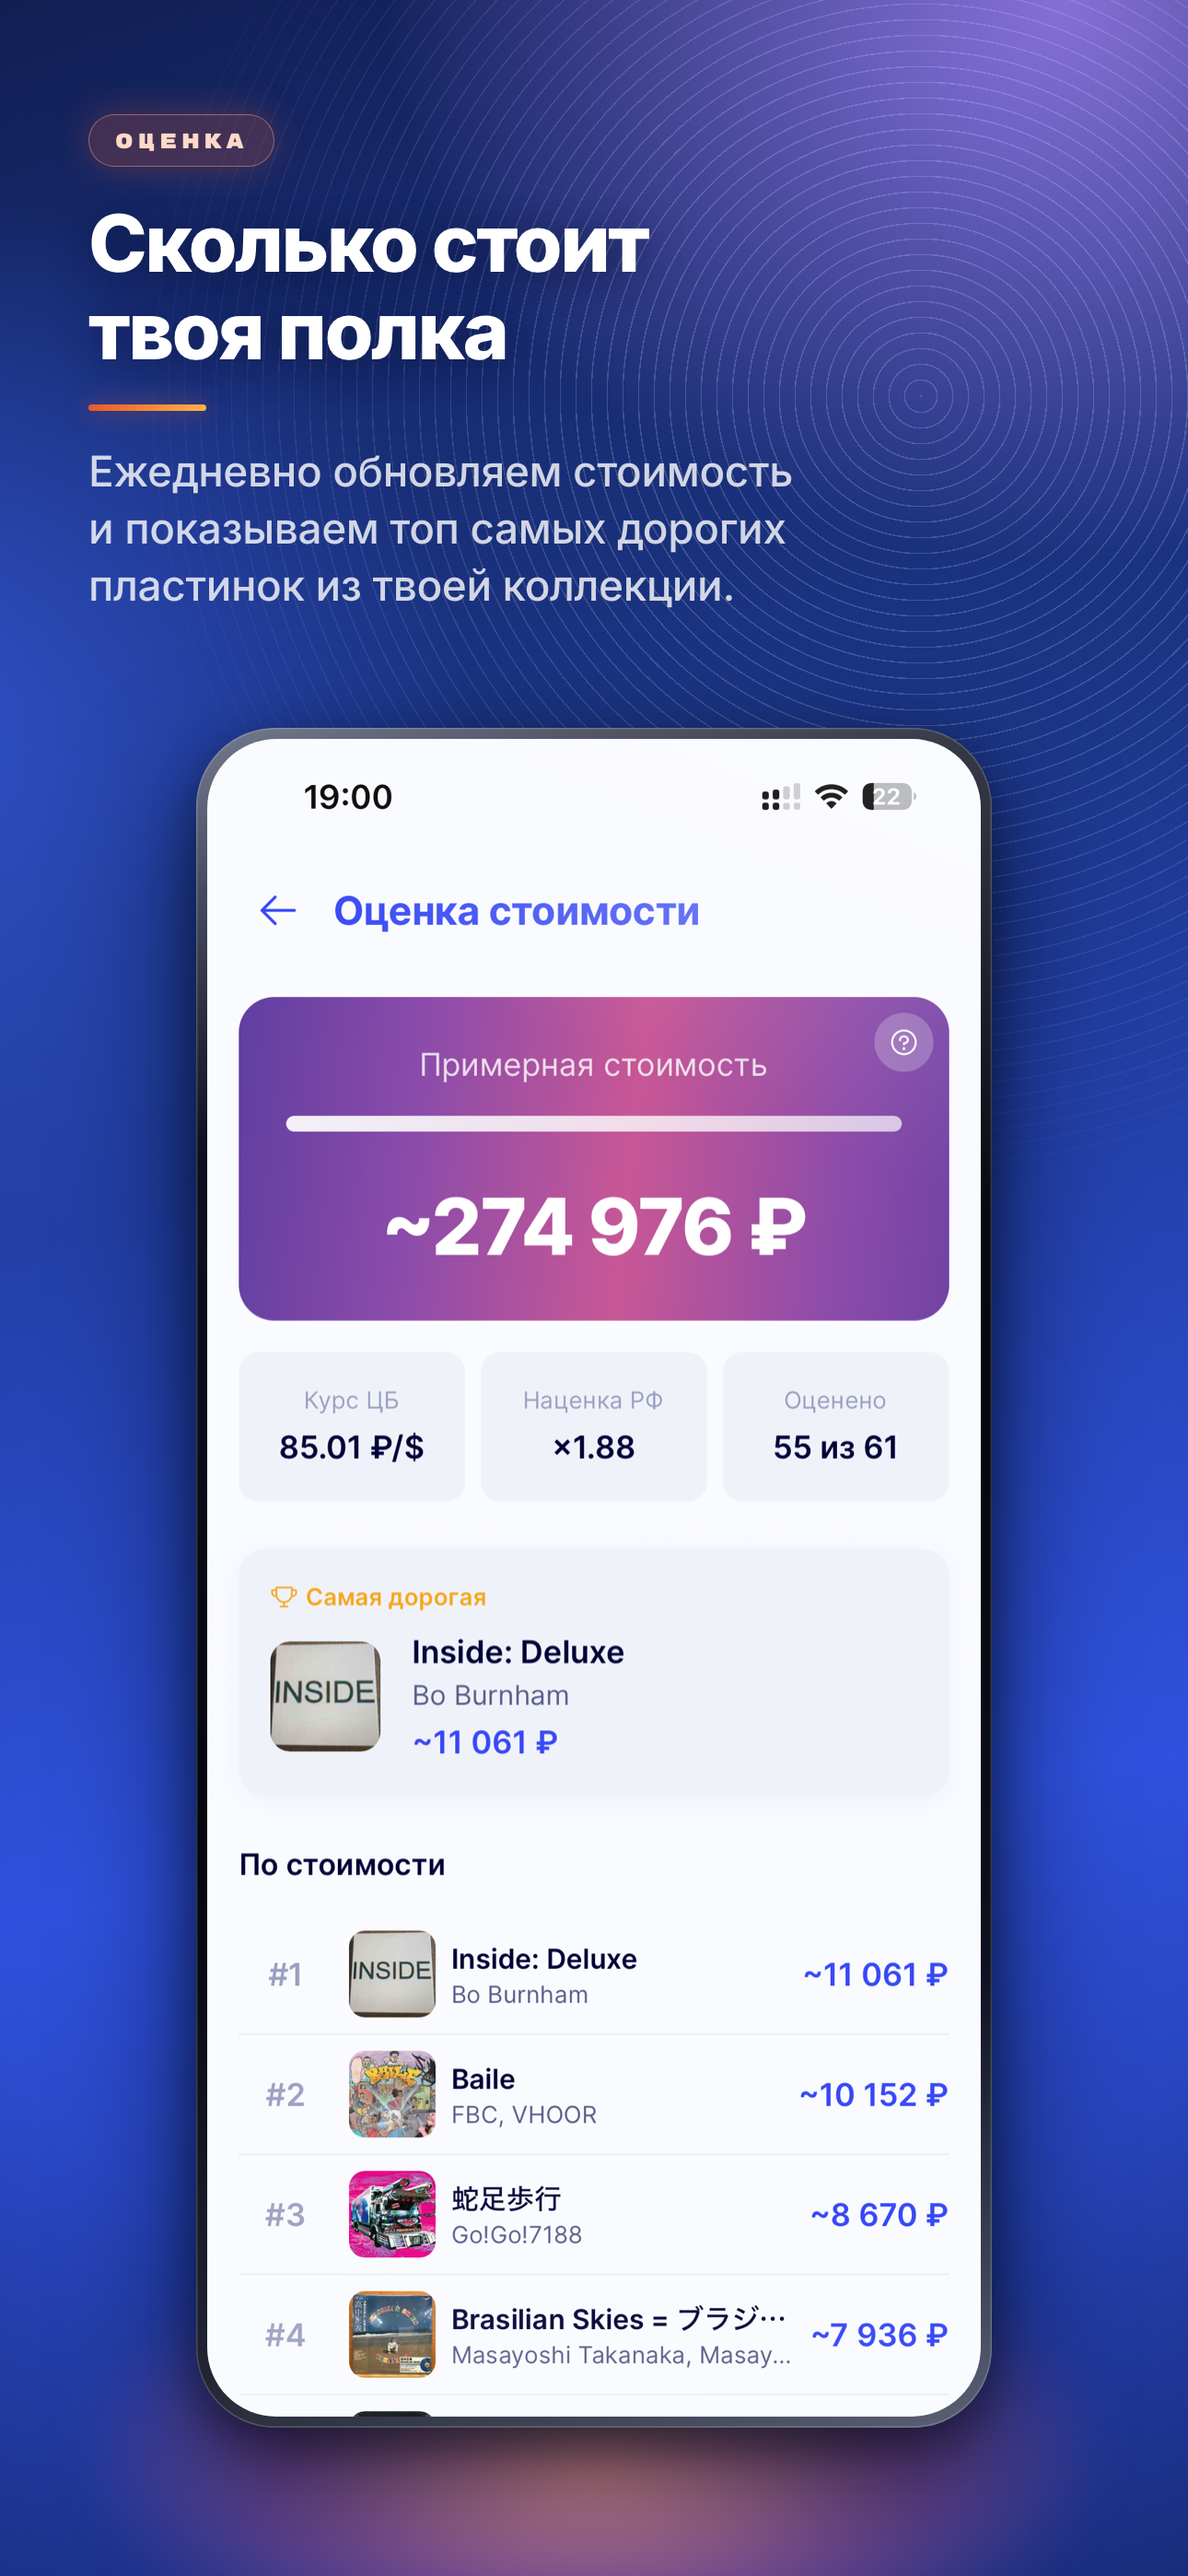
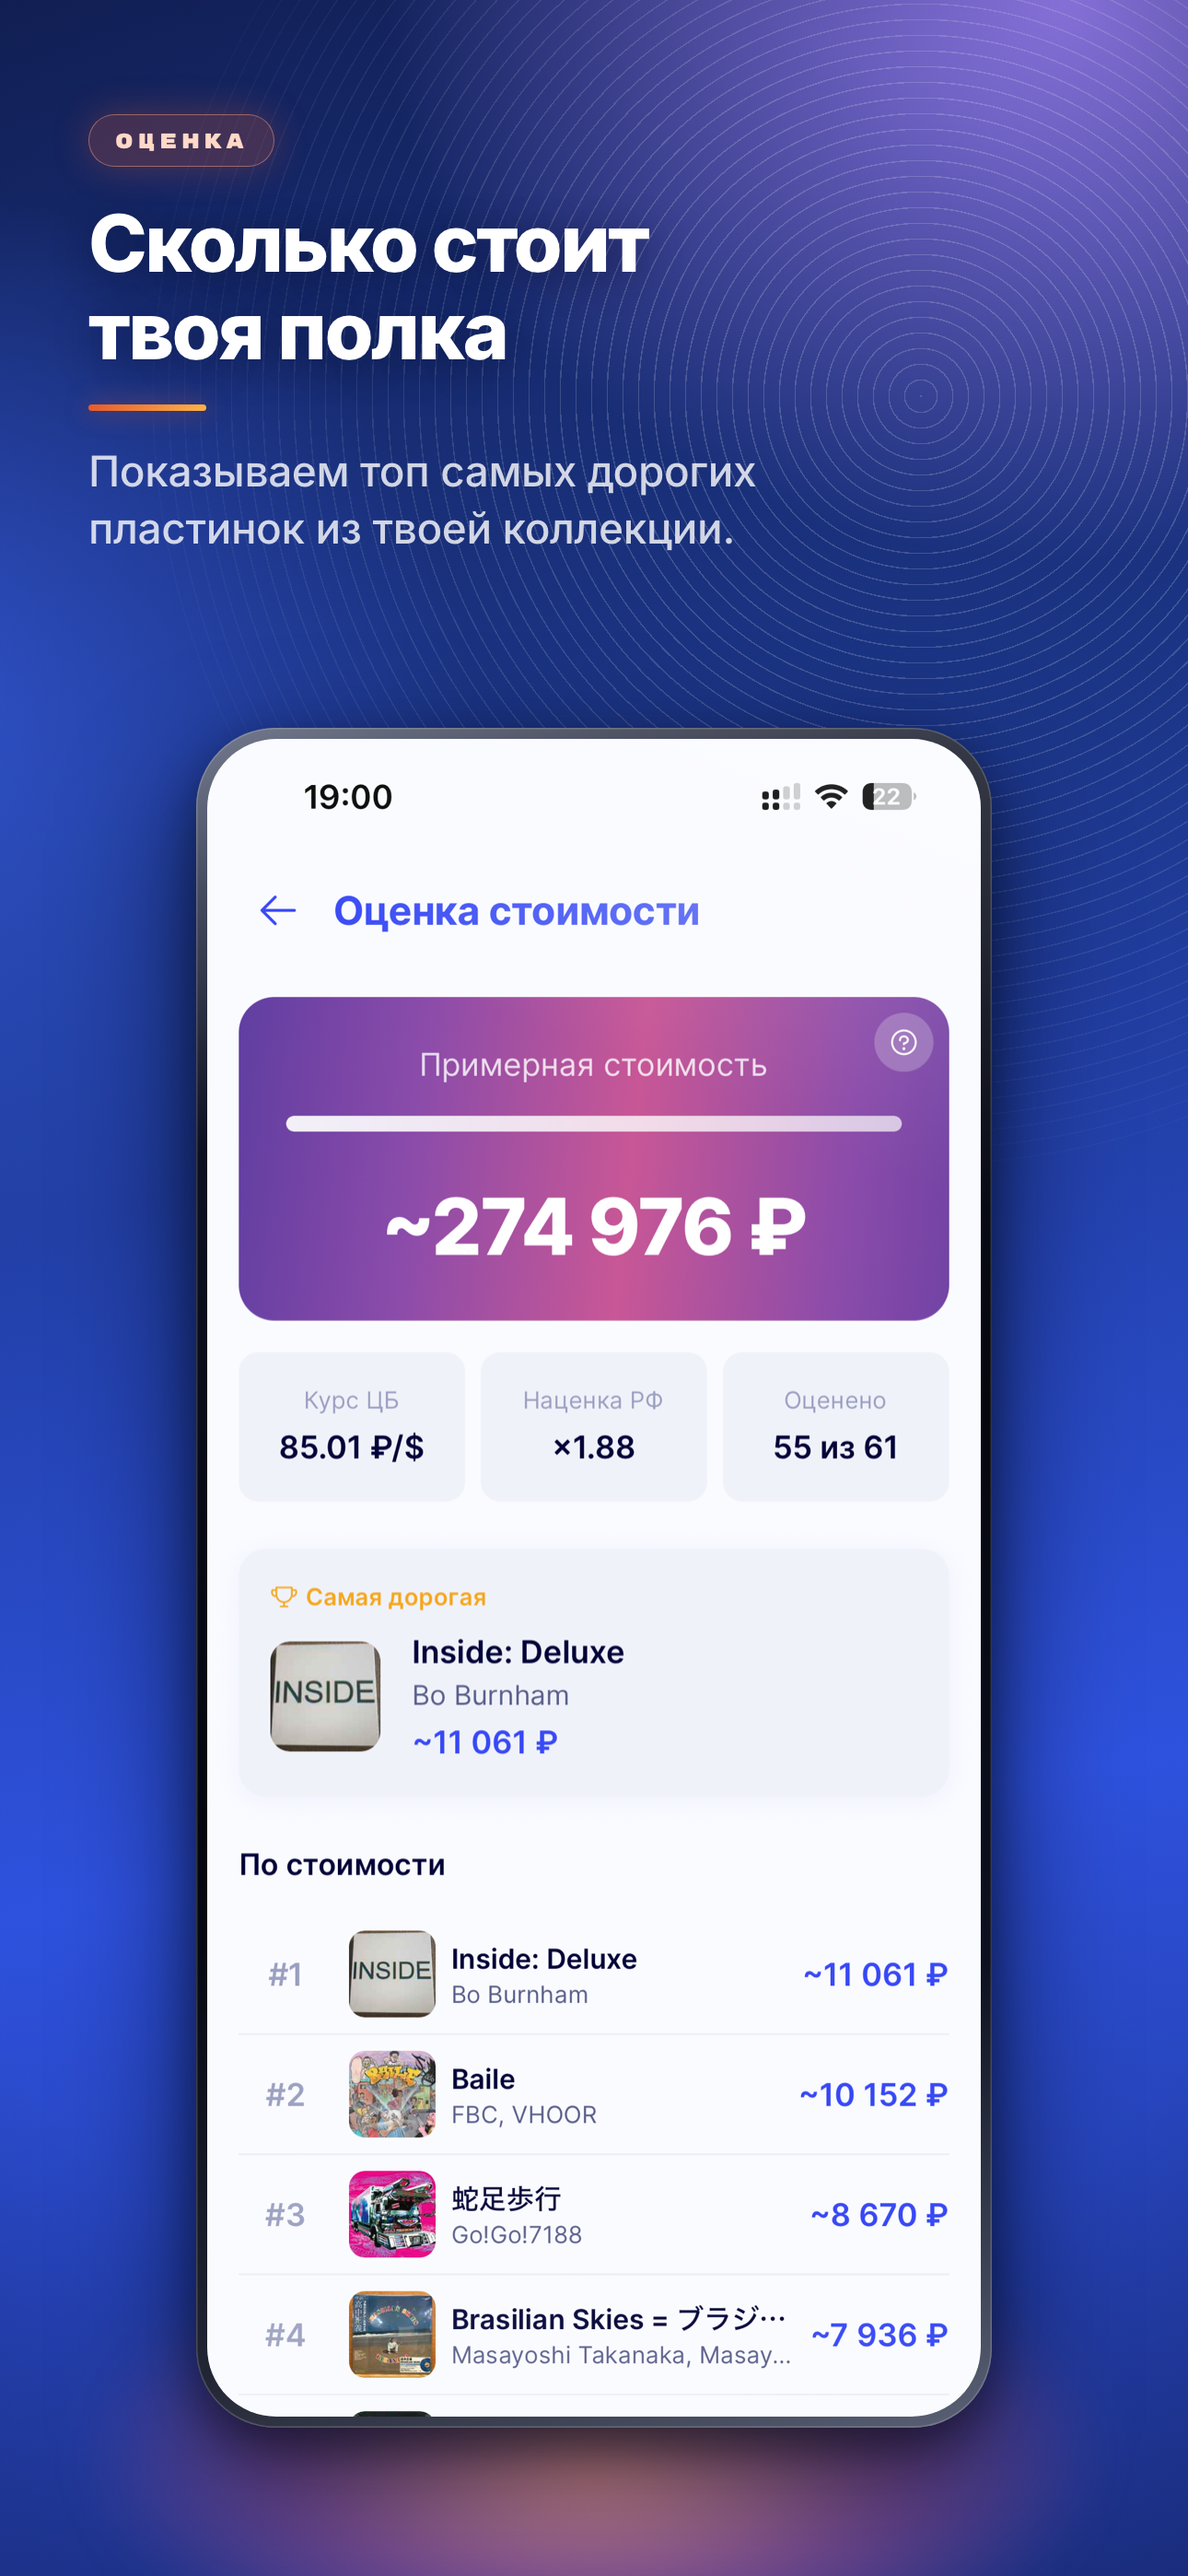
fix(appstore): подпись на кадре оценки — короче и в две строки

Changed region(s): [[0.093, 0.1556, 0.6512, 0.2489]]

diff --git a/Вертушка/Design/appstore/build.py b/Вертушка/Design/appstore/build.py
@@ -64,7 +64,7 @@ SLIDES = [
         "shot": "value.png",
         "tag": "ОЦЕНКА",
         "title": "Сколько стоит\nтвоя полка",
-        "sub": "Ежедневно обновляем стоимость\nи показываем топ самых дорогих\nпластинок из твоей коллекции.",
+        "sub": "Показываем топ самых дорогих\nпластинок из твоей коллекции.",
         # фиолетово-розовая нота: карточка оценки на экране такая же
         "glow": "radial-gradient(1200px 980px at 90% 0%, rgba(162,132,250,.86), transparent 62%),"
                 "radial-gradient(1040px 940px at -10% 28%, rgba(58,96,236,.70), transparent 62%)",
